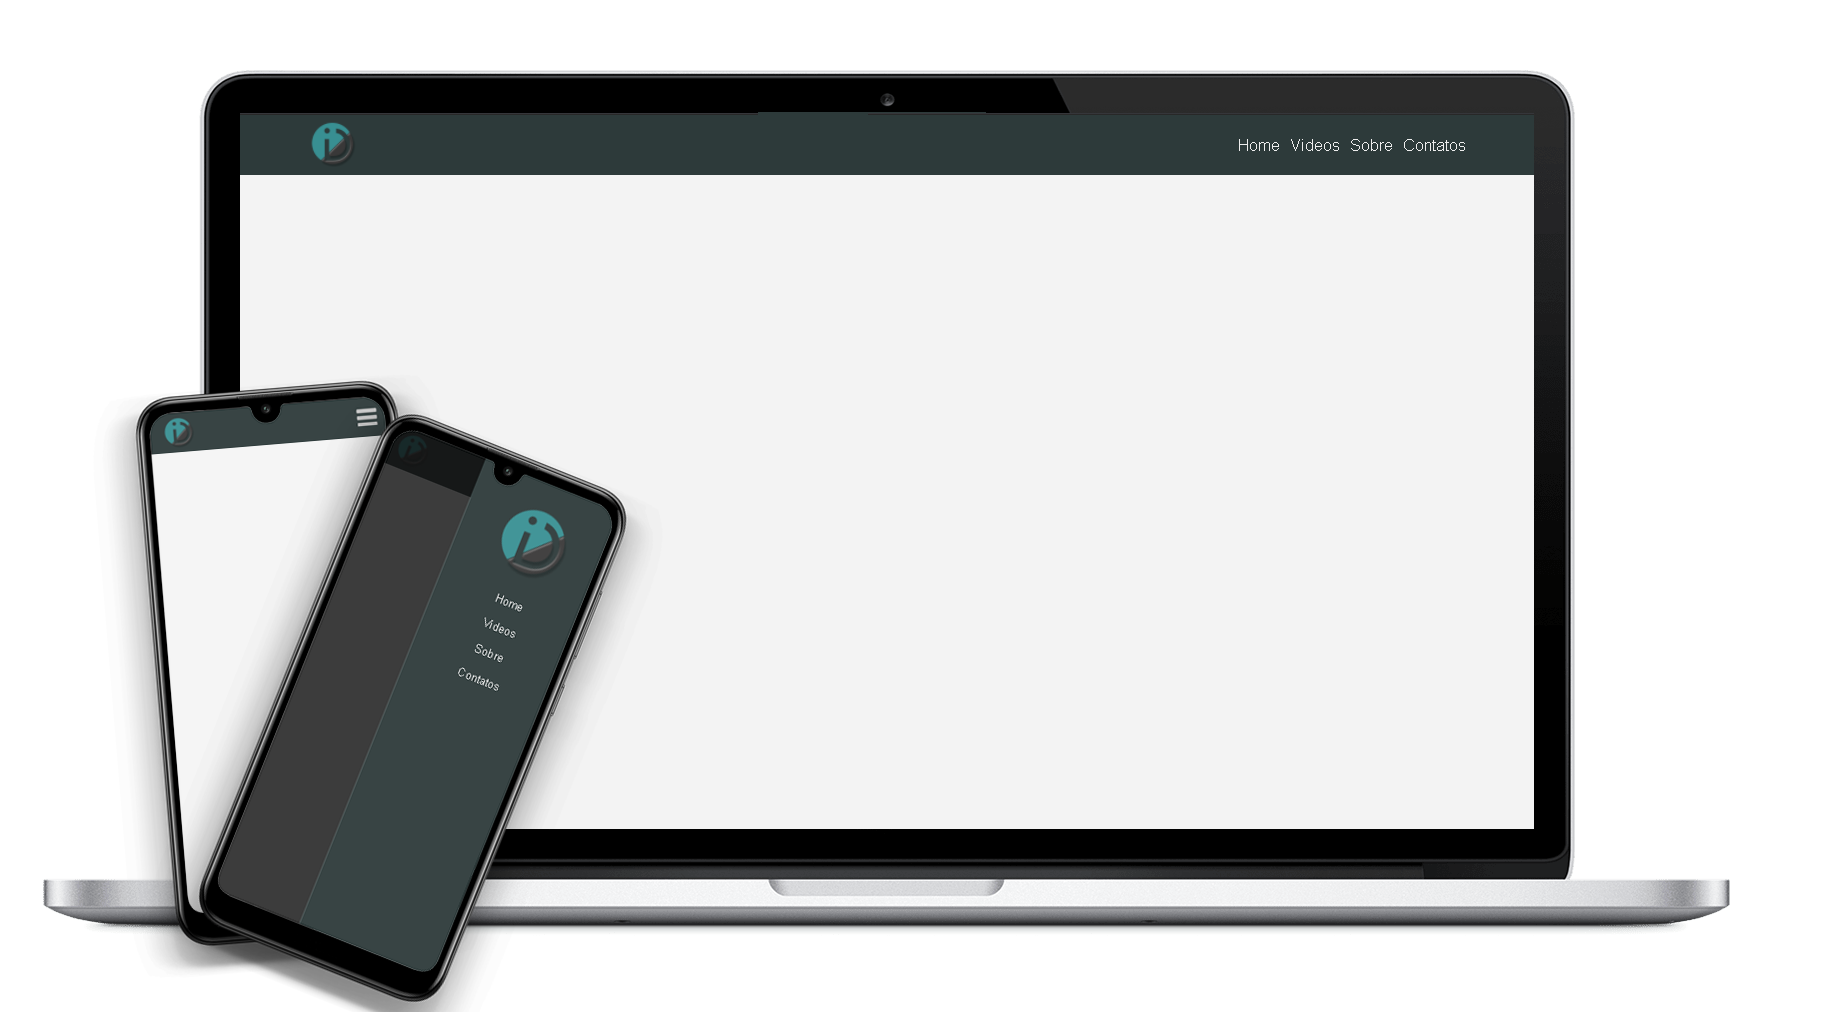
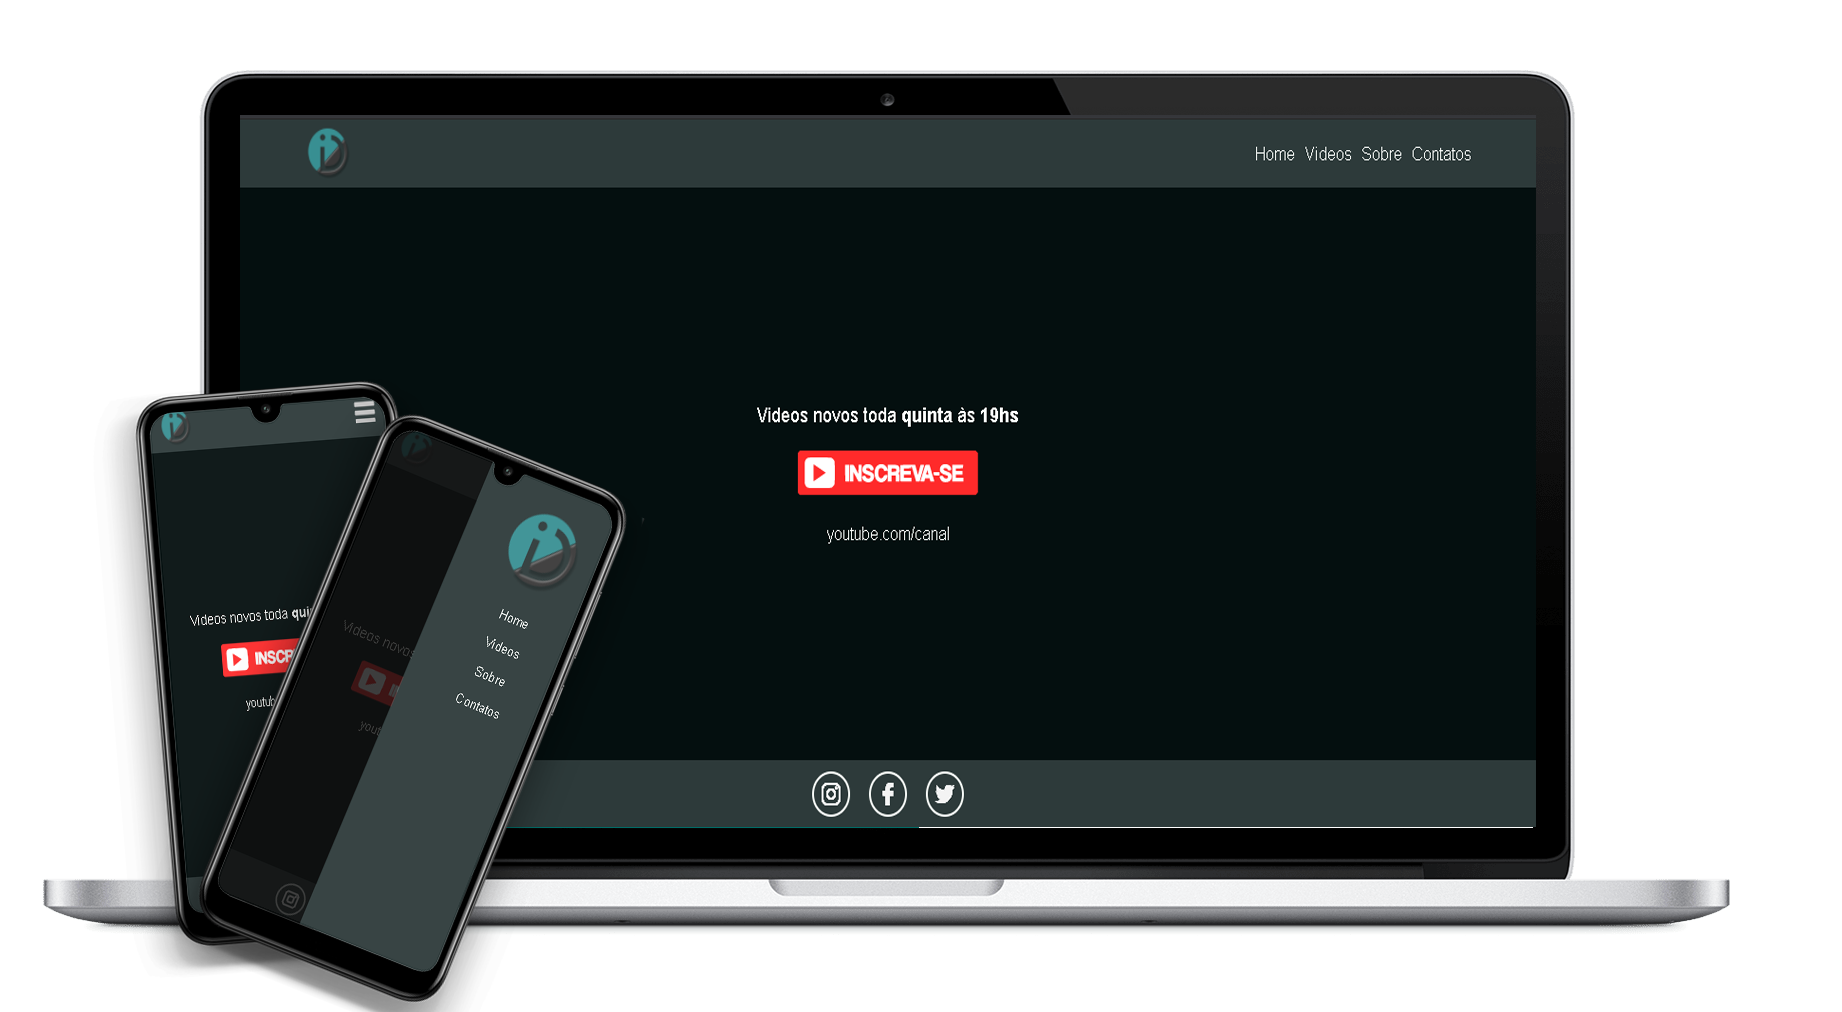
finalizando a home da aplicação tenho finalizado o componente footer

diff --git a/src/pages/Footer.vue b/src/pages/Footer.vue
@@ -1,0 +1,49 @@
+<template>
+    <footer>
+        <a target="_blank" class="socialLink" v-for="(socialLink, index) in socialLinks" :key="index" :href="socialLink.link">
+            <img :src="socialLink.icon" :alt="socialLink.label" :title="socialLink.label">
+        </a>
+    </footer>
+</template>
+<script>
+
+import api from '@/services/api.js';
+
+export default {
+    name: 'Footer',
+    data(){
+        return {
+            socialLinks: []
+        }
+    },
+    mounted(){
+        api.get('/social-links.json').then(response => {
+            this.socialLinks = response.data;            
+        })
+    }
+}// tempo pausa 1:08 
+</script>
+<style scoped>
+    footer {
+        height: 60px;
+        widows: 100%;
+        background-color: var(--color-background-nav);
+        display:flex;
+        justify-content: center;
+        align-items: center;
+    }
+
+    .socialLink{
+        border:  2px solid var(--color-text-light);
+        border-radius: 50%;
+        display:flex;
+        justify-content: center;
+        align-items: center;
+        width: 40px;
+        height: 40px;
+        margin: 0 10px;
+    }
+    .socialLink img{
+        width: 20px;
+    }
+</style>

diff --git a/src/pages/Home.vue b/src/pages/Home.vue
@@ -1,0 +1,35 @@
+<template>
+    <main>
+        <p class="text-top">Videos novos toda <strong>quinta</strong> às <strong>19hs</strong> </p>
+        <a href="#" ><img src="https://raw.githubusercontent.com/william-costa/wdev-mock-site-resources/master/assets/images/subscribe.svg
+" alt="inscreva-se" id="subscribe"></a>
+        <p class="text-button">youtube.com/canal </p>
+
+    </main>
+</template>
+
+<script>
+export default {
+    name:'Home'
+}
+</script>
+<style scoped>
+    main{
+        background-color: var(--color-background-home);
+        justify-content: center;
+        align-items: center;
+    }
+
+    .text-top{
+        color: var(--color-text-light);
+        font-size: 18px;
+    }
+    #subscribe{
+        width: 190px;
+        margin: 20px 0;
+    }
+    .text-button{
+        color: var(--color-text-light);
+        font-size: 16px
+    }
+</style>

diff --git a/src/styles/global.css b/src/styles/global.css
@@ -5,6 +5,8 @@
     --color-text-light:#fcfffc;
     --color-text-title:#FF5555;
     --color-text-dark:#3D3D3D;
+    --color-green-light:#248232;
+    --color-green-pantone:#2ba84a;
   }
 
   * {
@@ -20,6 +22,12 @@
   }
   .container{
       width: 90%;
+  }
+  main{
+      width: 100%;
+      height: calc(100vh - 120px);
+      display: flex;
+      flex-direction: column;
   }
   a{
       text-decoration: none;

diff --git a/src/App.vue b/src/App.vue
@@ -1,6 +1,8 @@
 <template>
   <div id="app">
     <Header />
+    <Home />
+    <Footer />
   </div>
 </template>
 
@@ -8,11 +10,15 @@
 import './styles/global.css';
 
 import Header from './components/Header';
+import Home from './pages/Home';
+import Footer from './pages/Footer';
 
 export default {
   name: 'App',
   components: {
-    Header
+    Header,
+    Home,
+    Footer
   }
 }
 </script>

diff --git a/src/services/api.js b/src/services/api.js
@@ -1,0 +1,7 @@
+import axios from 'axios';
+
+const api = axios.create({
+    baseURL:'https://raw.githubusercontent.com/william-costa/wdev-mock-site-resources/master/api'
+});
+
+export default api;
